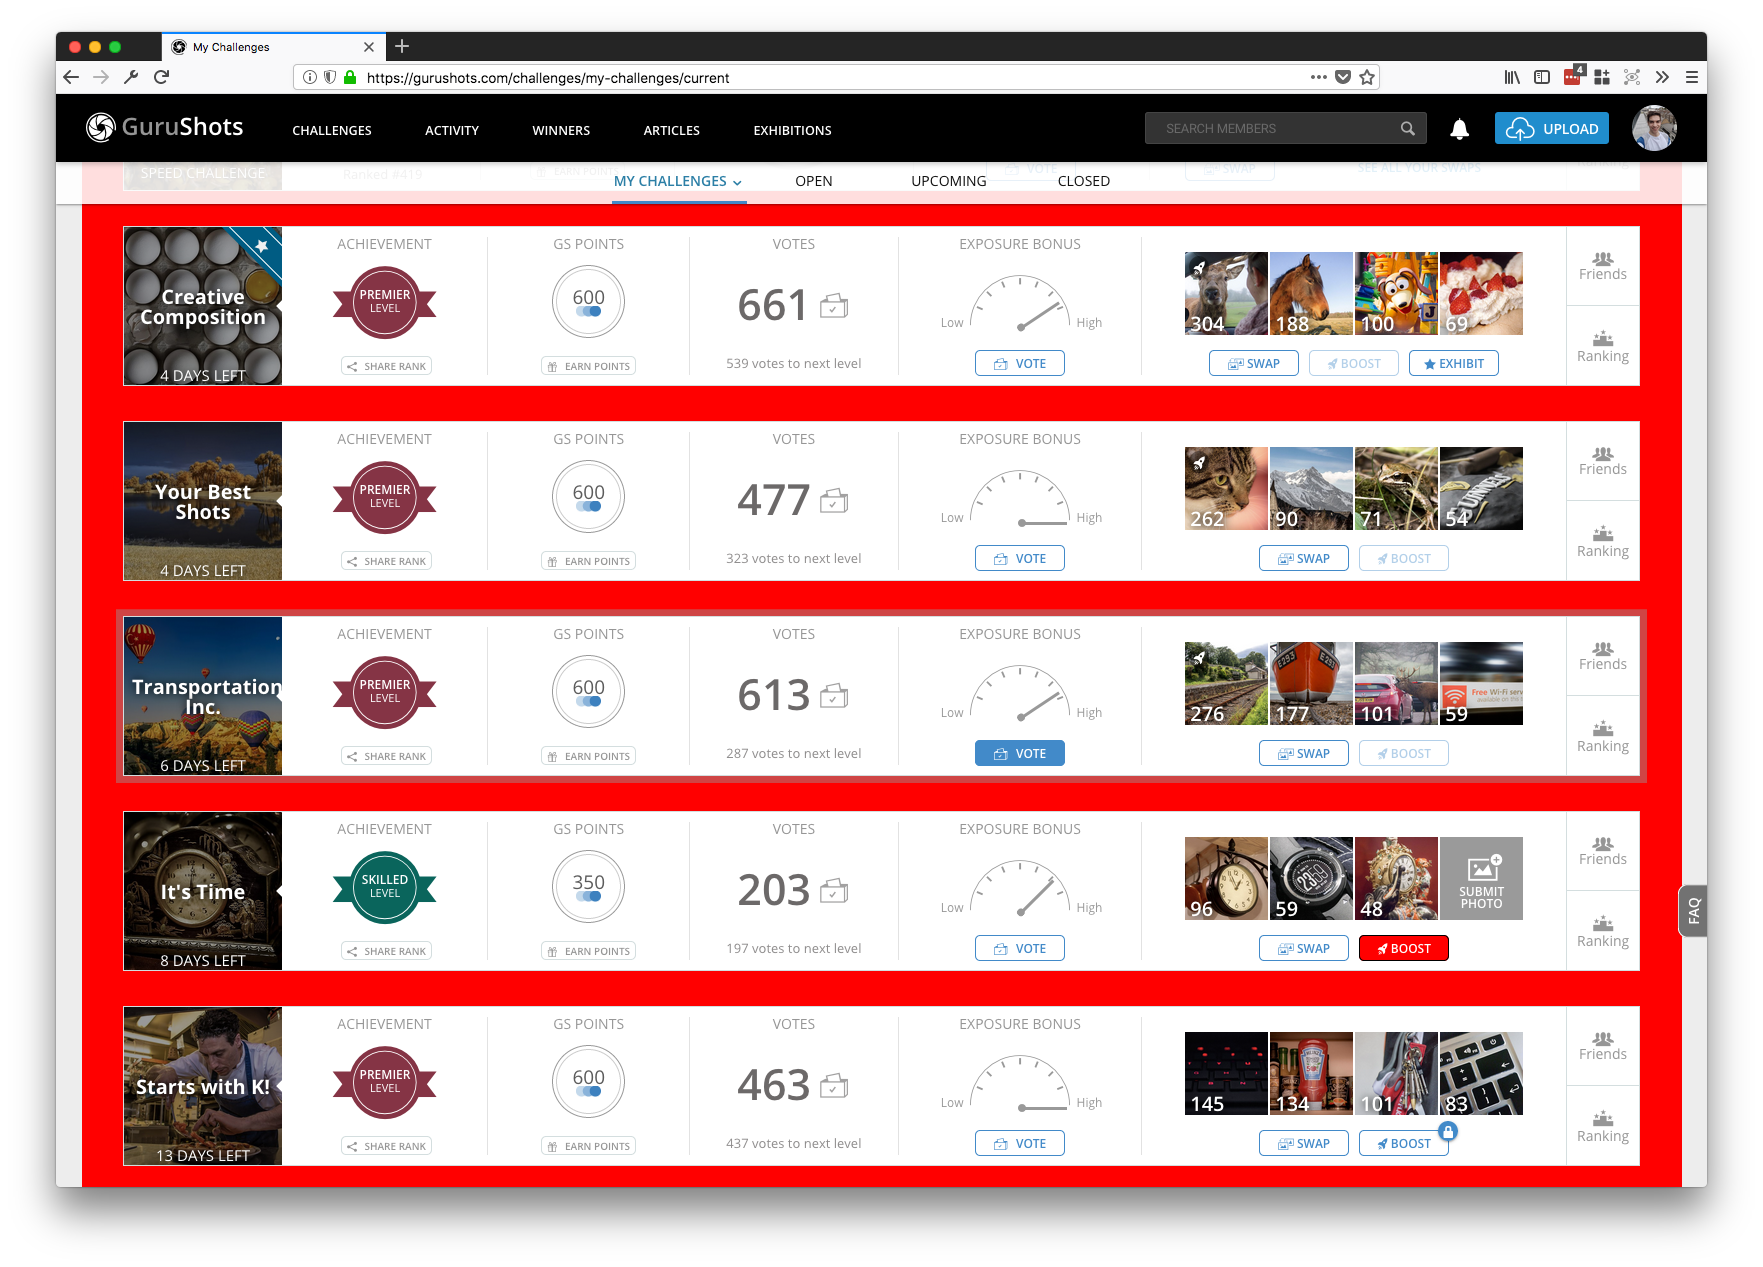
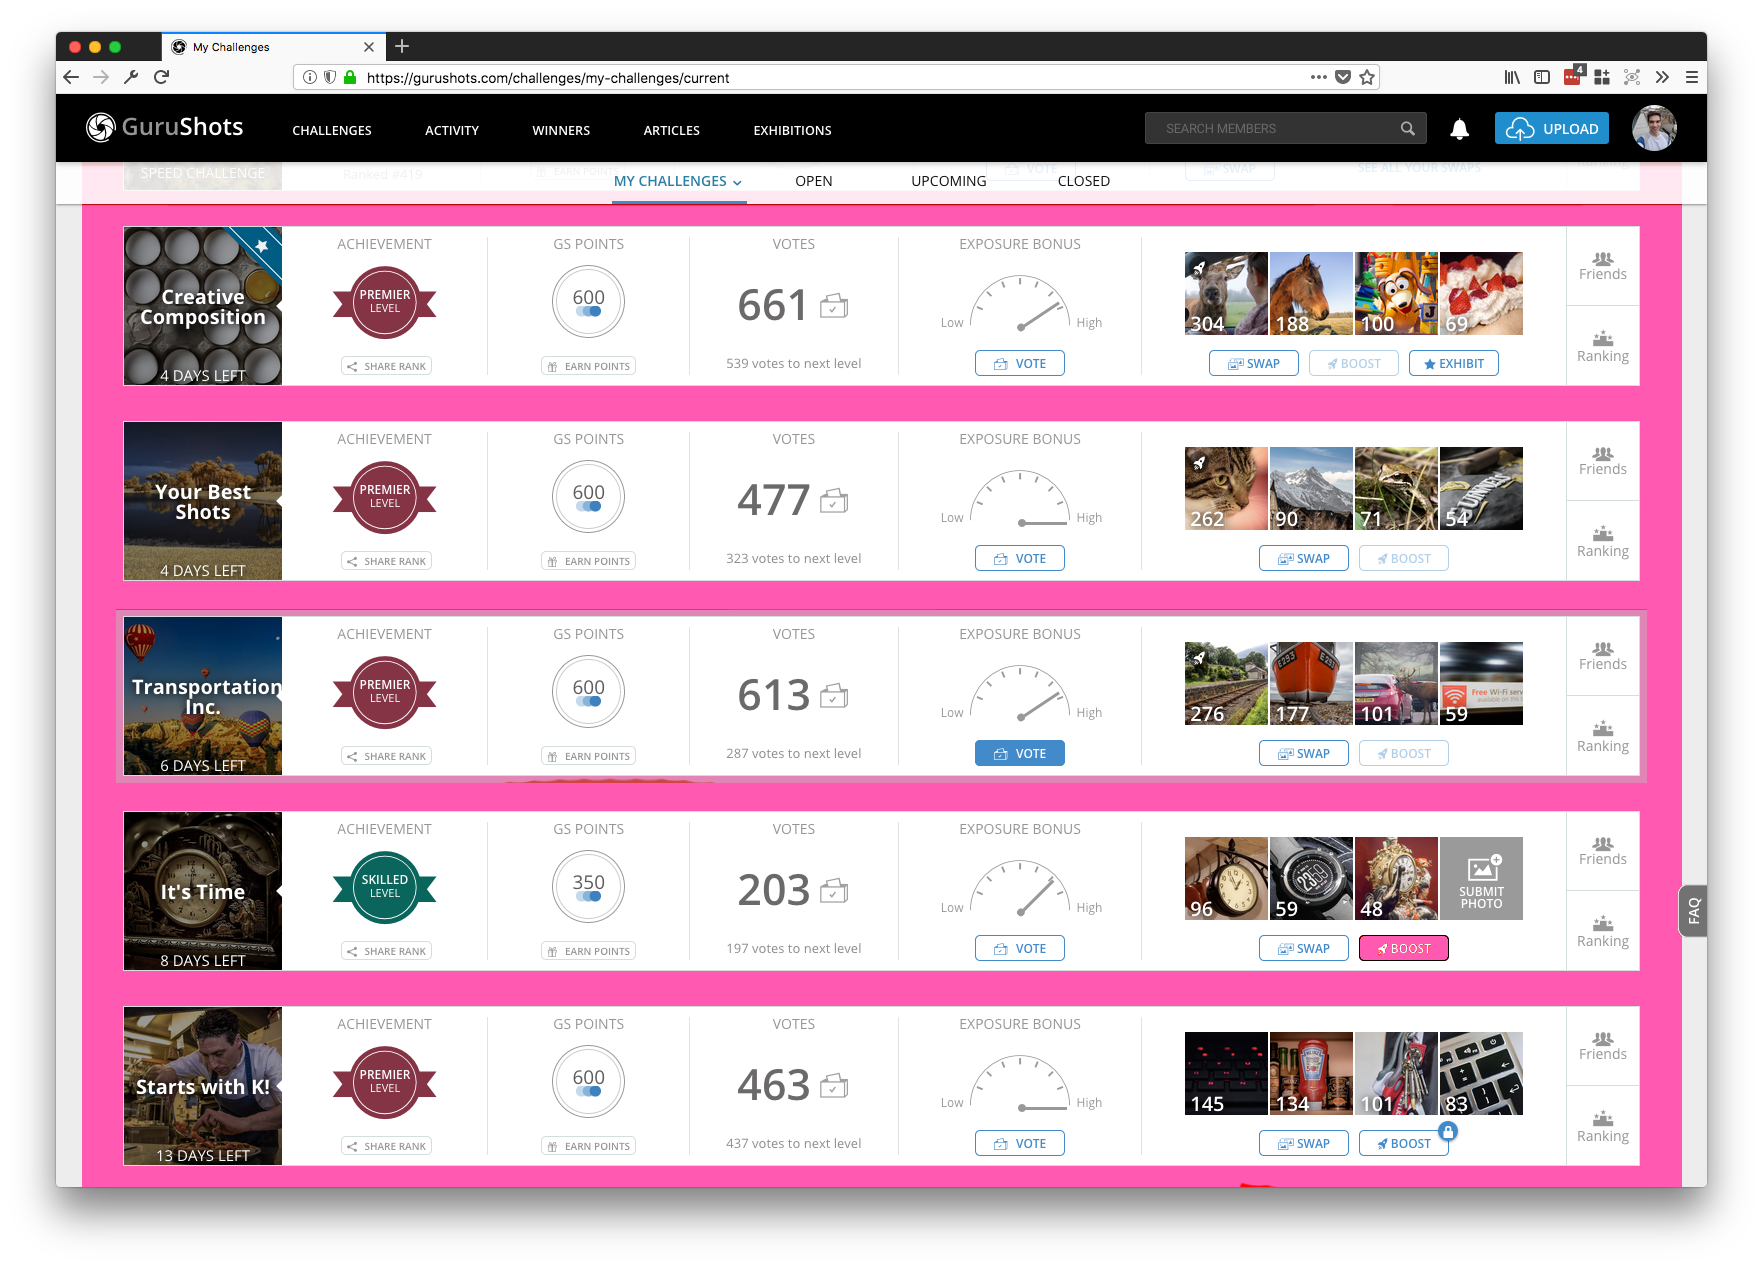
Update GS Script

Changed region(s): [[0.0312, 0.1539, 0.9671, 0.9542]]

diff --git a/server_content/greasemonkey/guruShotsBoost.js b/server_content/greasemonkey/guruShotsBoost.js
@@ -3,7 +3,7 @@
 // @namespace   urn://https://www.georgegillams.co.uk/api/greasemonkey/guruShotsBoost_download
 // @include     https://gurushots.com/*
 // @exclude     none
-// @version     3
+// @version     4
 // @description:en	Makes the boost buttons on GuruShots.com stand out more when a free boost is available.
 // @grant    		none
 // ==/UserScript==
@@ -23,7 +23,7 @@ function checkForFreeBoosts() {
         continue;
       }
       availableBoostCount += 1;
-      element.style.backgroundColor = 'red';
+      element.style.backgroundColor = 'hotpink';
       element.style.color = 'white';
       element.style.borderColor = 'black';
       element.style.opacity = '1';
@@ -37,7 +37,7 @@ function checkForFreeBoosts() {
   for (let i = 0; i < allDivElements.length; i += 1) {
     const element = allDivElements[i];
     if (element.className === 'w-max') {
-      element.style.backgroundColor = 'red';
+      element.style.backgroundColor = 'hotpink';
     }
   }
 }
